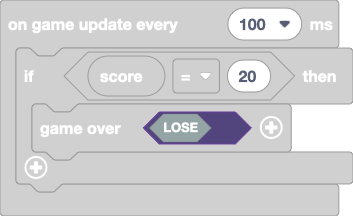
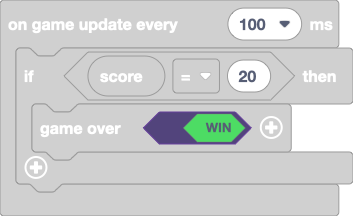
Update main.blocks, main.ts

Changed region(s): [[0.4051, 0.5278, 0.7167, 0.6667]]

diff --git a/main.ts b/main.ts
@@ -10,6 +10,6 @@ controller.moveSprite(SmileGuy)
 Pizza = sprites.create(assets.image`Pizza`, SpriteKind.Food)
 game.onUpdateInterval(100, function () {
     if (info.score() == 20) {
-        game.over(false)
+        game.over(true)
     }
 })
